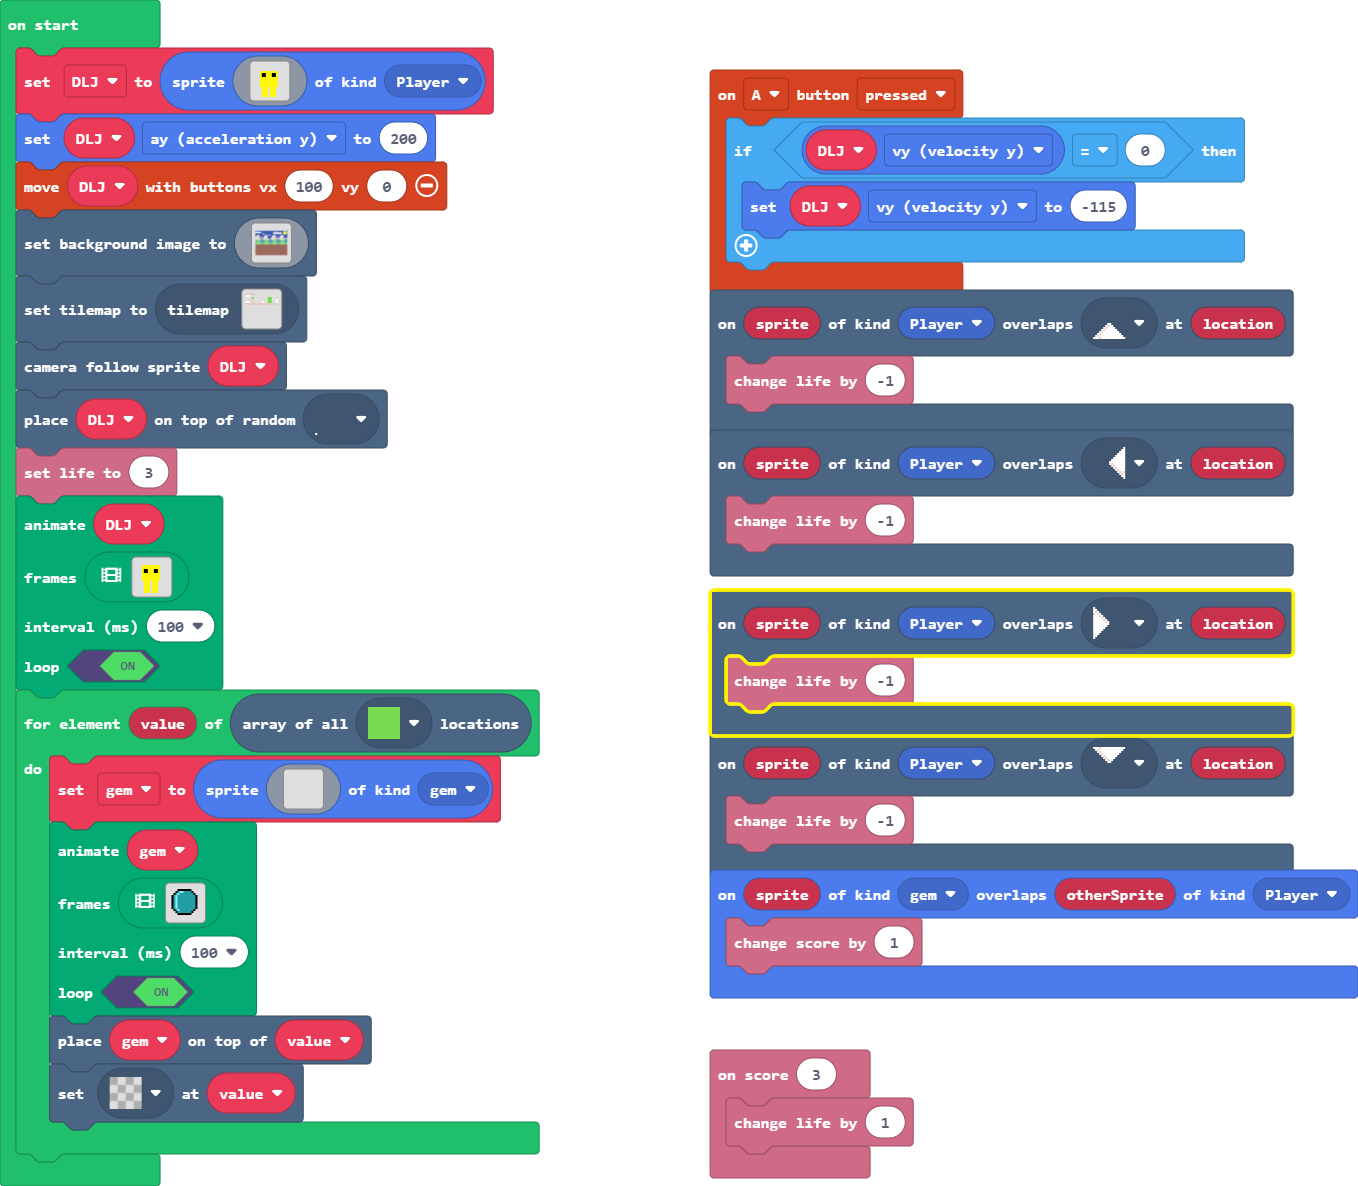
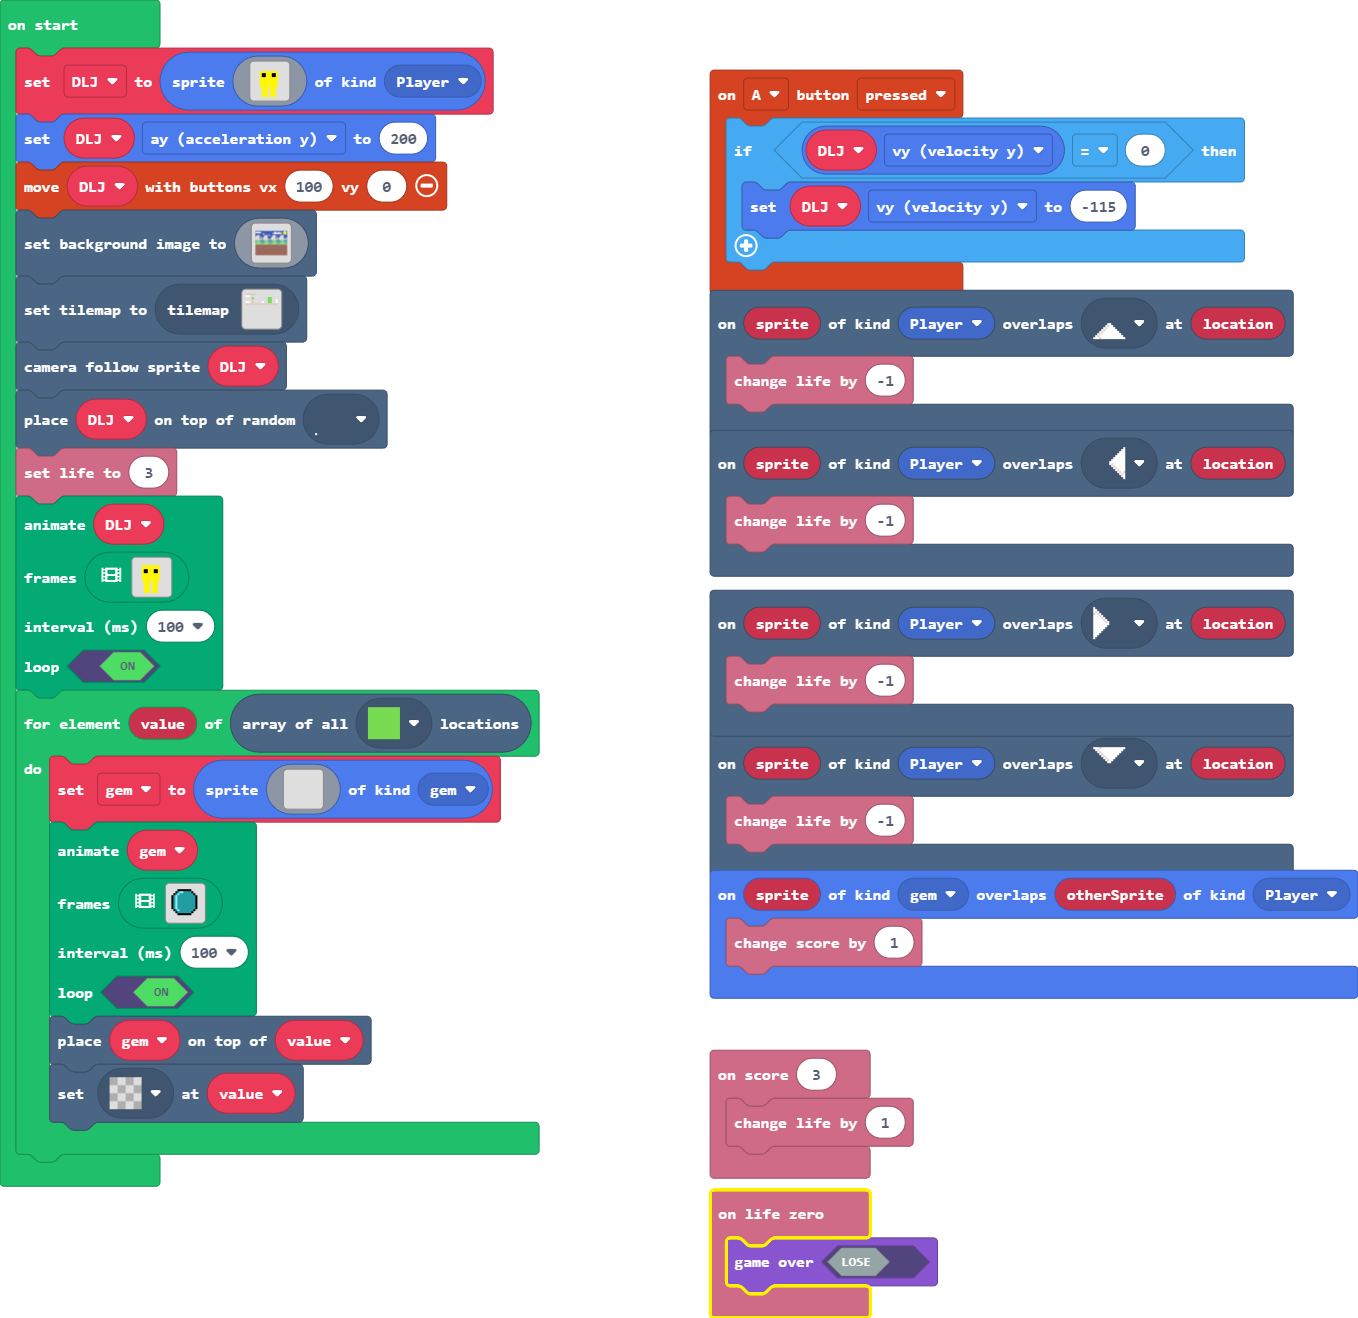
Update main.blocks, main.ts

diff --git a/main.ts b/main.ts
@@ -21,6 +21,9 @@ scene.onOverlapTile(SpriteKind.Player, assets.tile`myTile2`, function (sprite, l
 info.onScore(3, function () {
     info.changeLifeBy(1)
 })
+info.onLifeZero(function () {
+    game.gameOver(false)
+})
 sprites.onOverlap(SpriteKind.gem, SpriteKind.Player, function (sprite, otherSprite) {
     info.changeScoreBy(1)
 })
